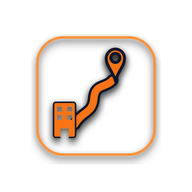
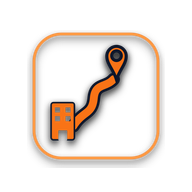
Ajusta el splash de la PWA: ícono con fondo transparente, sin ícono duplicado
- pwa-icon-192/512.png: vuelven a fondo transparente (como el arte
  original, que ya es un cuadrado redondeado con borde) en vez del fondo
  blanco cuadrado que agregué antes — ese fondo se veía como un cuadrado
  sin redondear cuando el sistema lo pintaba "tal cual" en el splash
  nativo. pwa-icon-maskable.png (fondo blanco a todo el lienzo) se
  mantiene sin cambios, es el que usa Android para recortar el ícono del
  home screen.
- La pantalla de carga propia (app/layout.tsx) ya no repite el ícono:
  el splash nativo del sistema lo muestra un instante antes, y
  repetirlo se sentía como si el ícono "saltara" entre las dos
  pantallas. Ahora solo agrega el nombre de la app y el indicador de
  carga, que es justo lo que el splash nativo no garantiza.

Changed region(s): [[0.125, 0.1562, 0.875, 0.875]]

diff --git a/app/layout.tsx b/app/layout.tsx
@@ -121,13 +121,17 @@ export default function RootLayout({ children }: LayoutProps<"/">) {
         {SCRIPT_SERVICE_WORKER && <script dangerouslySetInnerHTML={{ __html: SCRIPT_SERVICE_WORKER }} />}
       </head>
       <body className="min-h-full flex flex-col">
+        {/* Sin ícono a propósito: el splash nativo del sistema (armado desde
+            manifest.ts) ya muestra el ícono un instante antes que esto —
+            repetirlo acá se sentía como si el ícono "saltara" entre los dos.
+            Esta pantalla solo agrega lo que el splash nativo no garantiza:
+            el nombre de la app y un indicador de carga. */}
         <div
           id="app-splash"
-          className="fixed inset-0 z-[9999] flex-col items-center justify-center gap-4 bg-white"
+          className="fixed inset-0 z-[9999] flex-col items-center justify-center gap-3 bg-white"
           style={{ transition: "opacity .3s ease" }}
         >
-          <img src="/pwa-icon-512.png" alt="" width={88} height={88} />
-          <p className="text-[15px] font-bold text-neutral-800 tracking-tight">{APP_NOMBRE}</p>
+          <p className="text-lg font-bold text-neutral-800 tracking-tight">{APP_NOMBRE}</p>
           <Spinner className="w-5 h-5 text-orange-500" />
         </div>
         <script dangerouslySetInnerHTML={{ __html: SCRIPT_OCULTAR_SPLASH }} />
